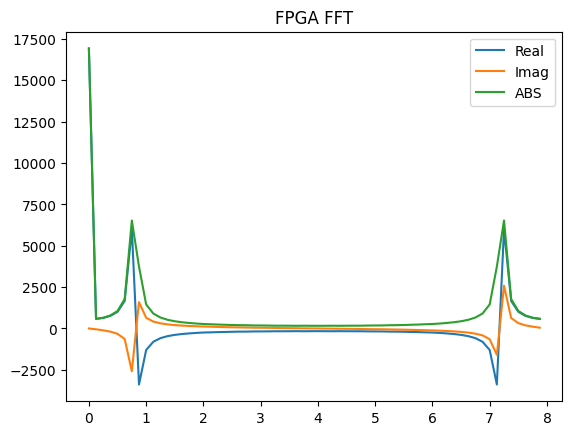
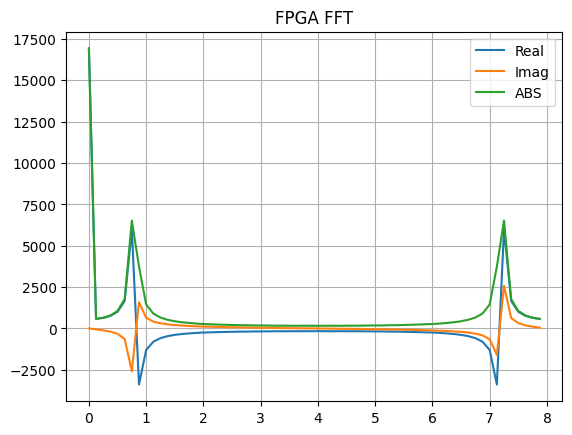
images update

diff --git a/python encapsulation/encapsulation.py b/python encapsulation/encapsulation.py
@@ -79,6 +79,7 @@ plt.title('Input wave')
 plt.plot(TIME, di_re, label='Real')
 plt.plot(TIME, di_im, label='Imag')
 plt.legend()
+plt.grid()
 plt.savefig('python encapsulation/input.png', bbox_inches='tight')
 
 plt.figure(2)
@@ -87,6 +88,7 @@ plt.plot(TIME,    fft_np.real, label='Real')
 plt.plot(TIME,    fft_np.imag, label='Imag')
 plt.plot(TIME, np.abs(fft_np),  label='ABS')
 plt.legend()
+plt.grid()
 plt.savefig('python encapsulation/fft_np.png', bbox_inches='tight')
 
 plt.figure(3)
@@ -95,6 +97,7 @@ plt.plot(TIME,    fft_fpga.real, label='Real')
 plt.plot(TIME,    fft_fpga.imag, label='Imag')
 plt.plot(TIME, np.abs(fft_fpga),  label='ABS')
 plt.legend()
+plt.grid()
 plt.savefig('python encapsulation/fft_fpga.png', bbox_inches='tight')
 
 plt.show()
